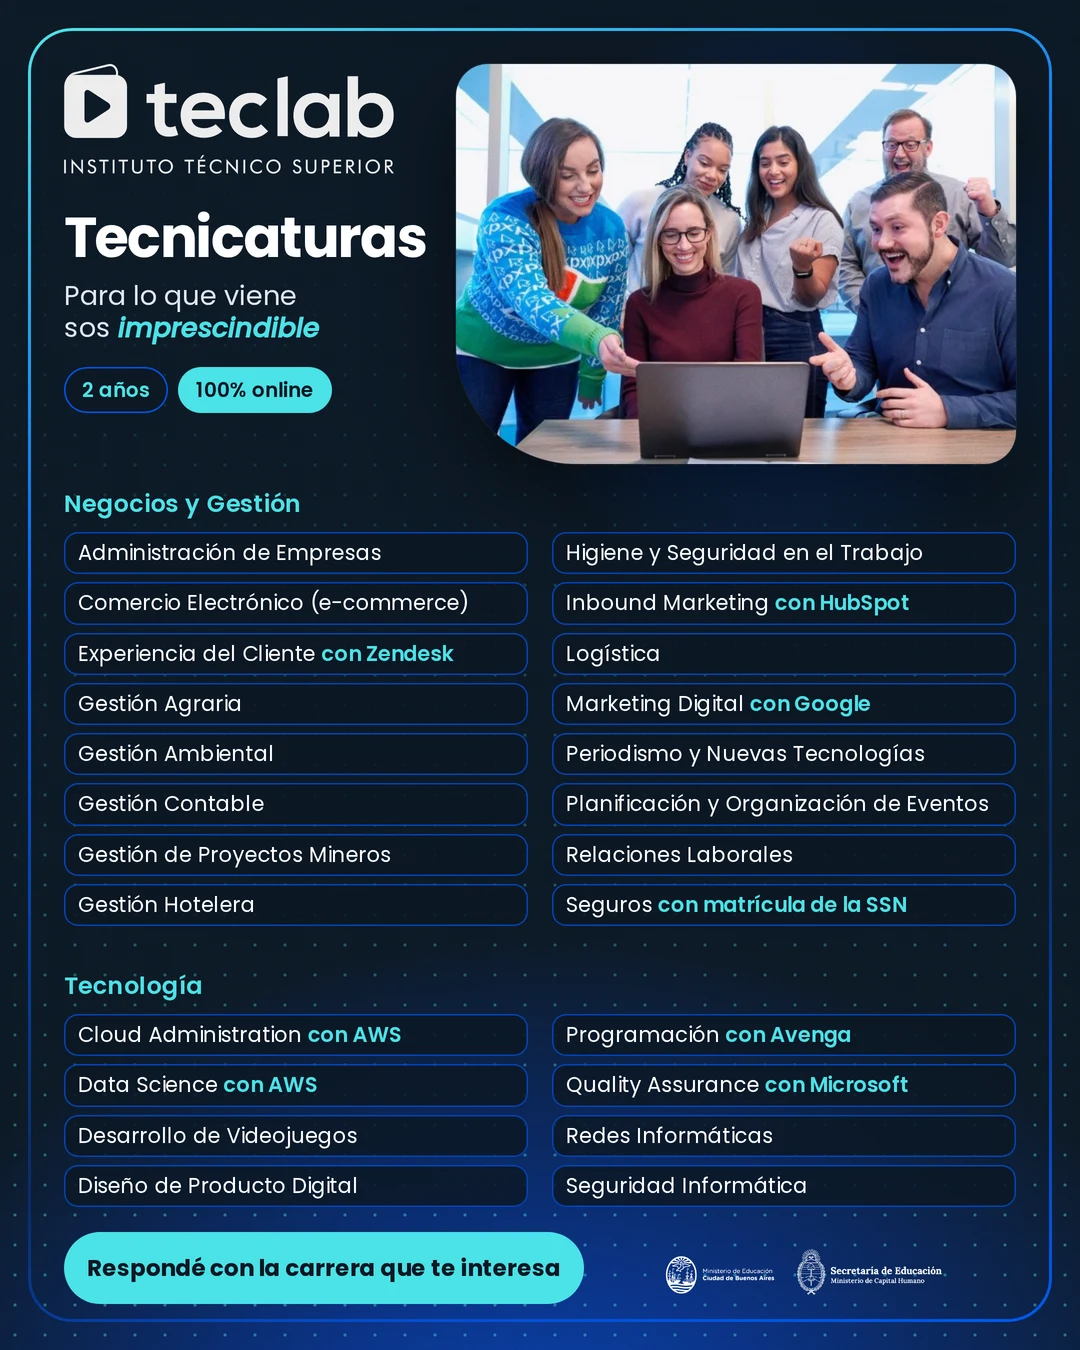
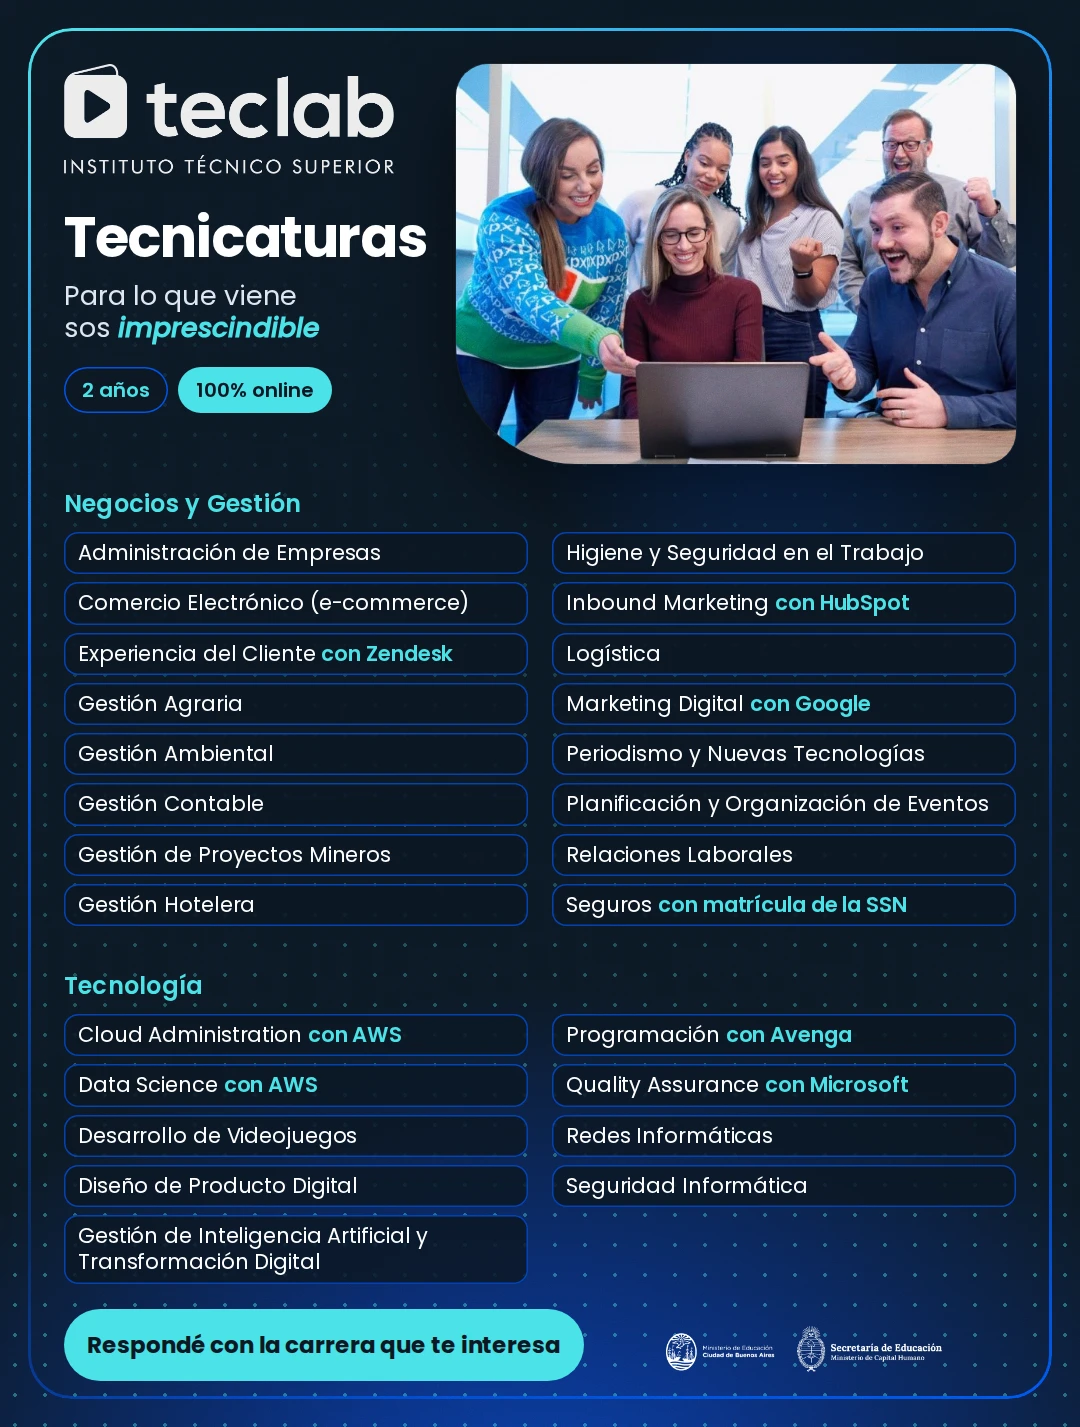
feat: actualizar el folleto de Teclab a las 25 tecnicaturas

Changed region(s): [[0.0306, 0.0, 0.9778, 0.9956], [0.1222, 0.0, 0.2139, 0.0311], [0.9167, 0.6533, 0.9472, 0.6844]]

diff --git a/components/videos-institucionales.tsx b/components/videos-institucionales.tsx
@@ -58,7 +58,7 @@ const VIDEOS: VideoInstitucional[] = [
       titulo: 'Teclab',
       alt: 'Oferta de tecnicaturas de Teclab',
       ancho: 1080,
-      alto: 1350,
+      alto: 1427,
     }],
   },
 ];

diff --git a/PENDIENTES.md b/PENDIENTES.md
@@ -8,7 +8,7 @@ Marcar una tarea terminada sólo con evidencia y mover su detalle al historial; 
 
 La prioridad de esta lista ordena el backlog; la cola ordena qué se propone hacer ahora. Se avanza de a un pendiente: si el usuario dice que no por ahora, no se marca como resuelto ni se cambia su prioridad; se lo baja al final de la cola activa y se propone el siguiente. Si no hay una cola activa explícita, se arma siguiendo el orden de prioridad de esta lista. Al retomar una tarea aplazada, vuelve a su lugar según la prioridad original.
 
-**Aplazados en la cola actual (19/11/2026):**
+**Aplazados en la cola actual (20/11/2026):**
 
 - Revisar la indexación de Desarrollo de Videojuegos (pendiente 2): hoy no; volver a consultar en unos días.
 - Dar imágenes a todas las carreras de Teclab (pendiente 5): bajado al final de la cola.
@@ -16,15 +16,9 @@ La prioridad de esta lista ordena el backlog; la cola ordena qué se propone hac
 - Crear un folleto de carreras relevantes de Teclab (pendiente 9): bajado al final de la cola.
 - Cargar Diseño y Desarrollo de IA y Comunicación Digital (pendiente 1): al final de la cola, esperar a que Teclab las publique.
 
-## Altísima
-
-1. **Cargar las otras carreras del bloque 4 cuando Teclab las publique** (1.5 y 40): Diseño y Desarrollo de IA y Comunicación Digital. Al 31/10/2026 no estaban publicadas; usar el material de la presentación (`Descargas/Nuevas carreras Teclab Bloque 4 -.pptx`, 65 diapositivas). Gestión de IA y Transformación Digital se publicó el 16/11/2026 y cotizó el 18/11/2026. Absorbe «Empezar a revisar nuevas carreras de Teclab» (39).
-
 ## Alta
 
 Las altas de Teclab van primero; después las demás.
-
-- **Actualizar el folleto de carreras de Teclab para que refleje la oferta vigente de 25 tecnicaturas** (revisión del checklist, 19/11/2026): la pieza de WhatsApp declara 24 y no incluye Gestión de Inteligencia Artificial y Transformación Digital. No confundir esta corrección puntual con la rutina de revisar la oferta, que queda en [rutinas](docs/rutinas.md). [Evidencia](referencias/2026-11-19-checklist-teclab-tres-carreras.md).
 
 5. **Dar imágenes a todas las carreras de Teclab** (46a). [Detalle del pedido original](docs/pendientes-detalle.md).
 
@@ -94,6 +88,8 @@ Las altas de Teclab van primero; después las demás.
 
 ## Baja
 
+- **Cargar las otras carreras del bloque 4 cuando Teclab las publique** (1.5 y 40; bajada de Altísima a Baja el 20/11/2026): Diseño y Desarrollo de IA y Comunicación Digital. Al 31/10/2026 no estaban publicadas; usar el material de la presentación (`Descargas/Nuevas carreras Teclab Bloque 4 -.pptx`, 65 diapositivas). Gestión de IA y Transformación Digital se publicó el 16/11/2026 y cotizó el 18/11/2026. Absorbe «Empezar a revisar nuevas carreras de Teclab» (39). Sigue al final de la cola activa, a la espera de que Teclab las publique.
+
 39. **Limpiar la estética «vibecodeada» del sitio** (6, 30/10/2026): hay muchas cosas que se ven claramente hechas por IA. Arreglo inmediato cuando se retome: bordes a la izquierda de las tarjetas, glassmorfismo y frases orientativas dentro de la propia página.
 
 40. **Usar mejor los negocios para la automatización de negocios** (4, 02/10/2026). [Vista de contactos en HubSpot](https://app.hubspot.com/contacts/44080364/objects/0-3/views/recently_assigned/list).
@@ -139,6 +135,8 @@ Se dejan anotadas para que no vuelvan a aparecer como pendientes.
 ## Cerradas el 06/11/2026
 
 ## Cerradas el 20/11/2026
+
+- **Actualizar el folleto de carreras de Teclab para que refleje la oferta vigente de 25 tecnicaturas** (revisión del checklist, 19/11): cerrada con evidencia. Se agregó Gestión de Inteligencia Artificial y Transformación Digital —que en D1 figura en `Teclab - Tecnología`— a la lista de WhatsApp. El nombre completo no cabe en una fila, así que se parte en dos y la pieza pasó de 1080×1350 a 1080×1427; el generador calcula el alto y el botón y el pie bajan con las filas. Verificado: 25 filas, sin desbordes ni solapes. La fuente quedó en `contenidos/teclab/aprobados/generales/whatsapp/2026-09-25-lista-carreras-whatsapp/` y el proceso en `contenidos/teclab/en-curso/2026-11-20-lista-carreras-25/`. Se actualizó también el webp del sitio y la dimensión que espera el carrusel. [Evidencia](referencias/2026-11-19-checklist-teclab-tres-carreras.md).
 
 - **Verificar los planes de estudio de todas las carreras** (09/11/2026): cerrada con evidencia. Se cotejaron las 25 tecnicaturas de Teclab contra `teclab.edu.ar` y las 69 carreras de Siglo 21 contra `21.edu.ar` ([evidencia](referencias/2026-11-20-planes-siglo21.md)). En Teclab se encontraron y publicaron cinco correcciones (`sql/2026-11-20-corregir-planes-teclab.sql`); en Siglo 21 no hubo cambios de materias. Las dos diferencias que aparecieron en un primer pasaje automático eran un error del extractor, descartado contra D1 antes de escribir. Queda fuera de alcance Identidad Argentina, cuyos planes se rehicieron el 09/11 desde los programas oficiales.
 
